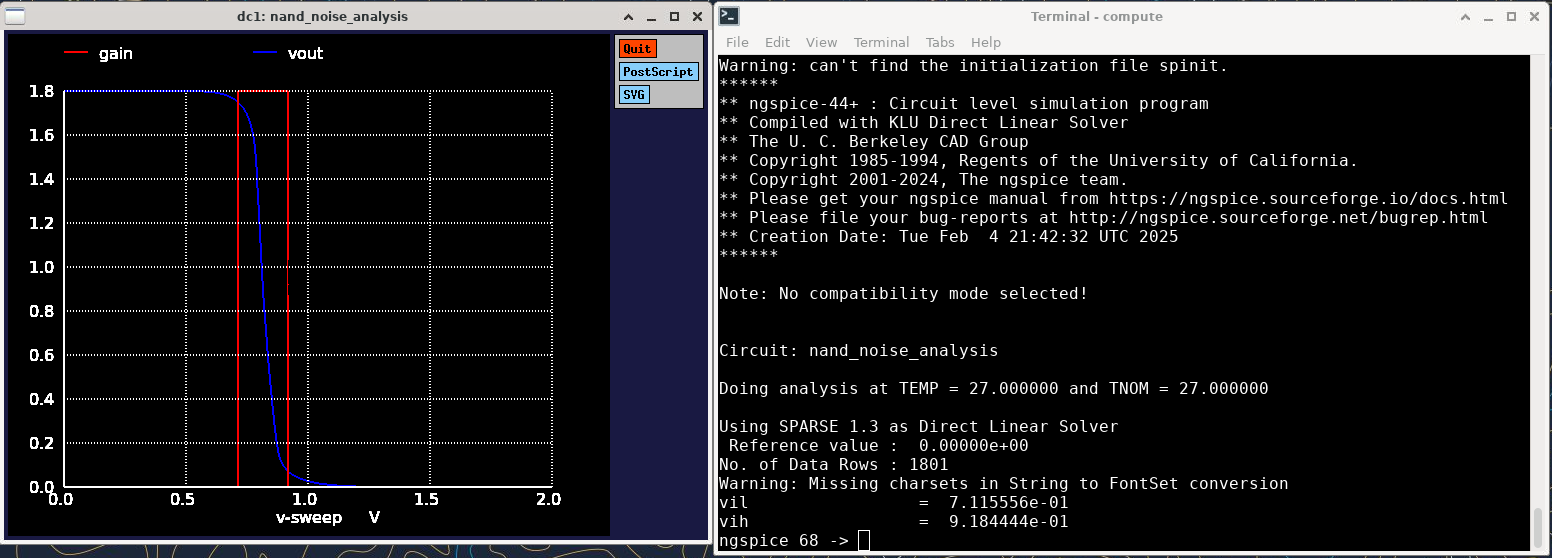
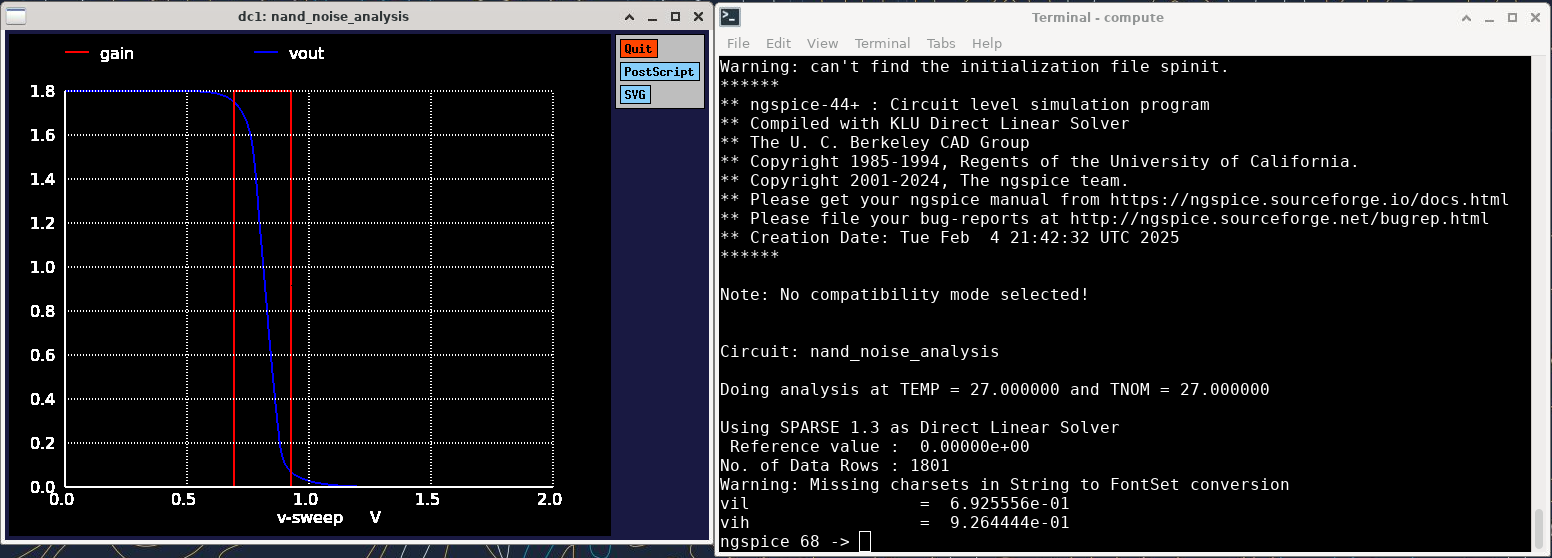
Updating delay results

diff --git a/2/ECE507_Lab2_Sowatzke.tex b/2/ECE507_Lab2_Sowatzke.tex
@@ -231,6 +231,42 @@
 		\label{fig::nand_noise_analysis_schem}
 	\end{figure}
 	
+	\begin{table}[H]
+	\begin{center}
+	\caption{Noise Margins from Netlist Simulation}
+	\label{table::nand_gate_noise_analysis}
+	\begin{tabular}{| c | c | c | c | c | c |}
+		\hline
+		\texttt{a} & \texttt{b} & \texttt{Vih} & \texttt{Vil} & \texttt{Nmh} & \texttt{Nml} \\
+		\hline	
+		$0 \rightarrow 1$ & $1$ & $0.9264 \text{V}$ & $0.6926 \text{V}$ & $0.8736 \text{V}$ & $0.6926 \text{V}$\\
+		\hline	
+		$1$ & $0 \rightarrow 1$ & $0.9184 \text{V}$ & $0.7116 \text{V}$ & $0.8816 \text{V}$ & $0.7116 \text{V}$\\
+		\hline	
+		$0 \rightarrow 1$ & $0 \rightarrow 1$ & $1.0224 \text{V}$ & $0.8046 \text{V}$ & $0.7776 \text{V}$ & $0.7776 \text{V}$\\
+		\hline
+	\end{tabular}
+	\end{center}
+	\end{table}
+	
+	\begin{table}[H]
+	\begin{center}
+	\caption{Noise Margins from Schematic Simulation}
+	\label{table::nand_gate_noise_analysis}
+	\begin{tabular}{| c | c | c | c | c | c |}
+		\hline
+		\texttt{a} & \texttt{b} & \texttt{Vih} & \texttt{Vil} & \texttt{Nmh} & \texttt{Nml} \\
+		\hline	
+		$0 \rightarrow 1$ & $1$ & $0.9264 \text{V}$ & $0.6926 \text{V}$ & $0.8736 \text{V}$ & $0.6926 \text{V}$\\
+		\hline	
+		$1$ & $0 \rightarrow 1$ & $0.9184 \text{V}$ & $0.7116 \text{V}$ & $0.8816 \text{V}$ & $0.7116 \text{V}$\\
+		\hline	
+		$0 \rightarrow 1$ & $0 \rightarrow 1$ & $1.0224 \text{V}$ & $0.8046 \text{V}$ & $0.7776 \text{V}$ & $0.7776 \text{V}$\\
+		\hline
+	\end{tabular}
+	\end{center}
+	\end{table}
+	
 	\subsubsection{Delay Analysis}
 	\begin{figure}[H]
 		\lstinputlisting[style=nocoloring,frame=single,basicstyle=\fontsize{7}{7}\selectfont\ttfamily]{./src/nand_delay_analysis.spice}
